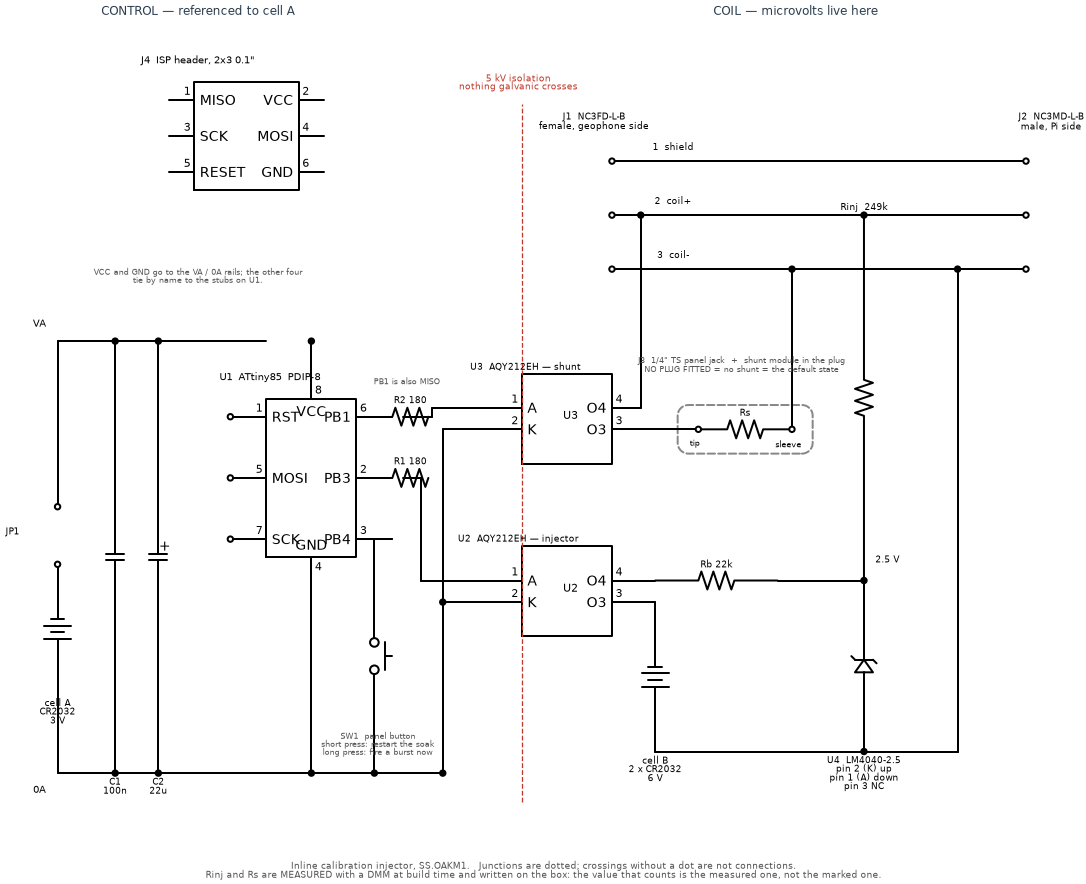
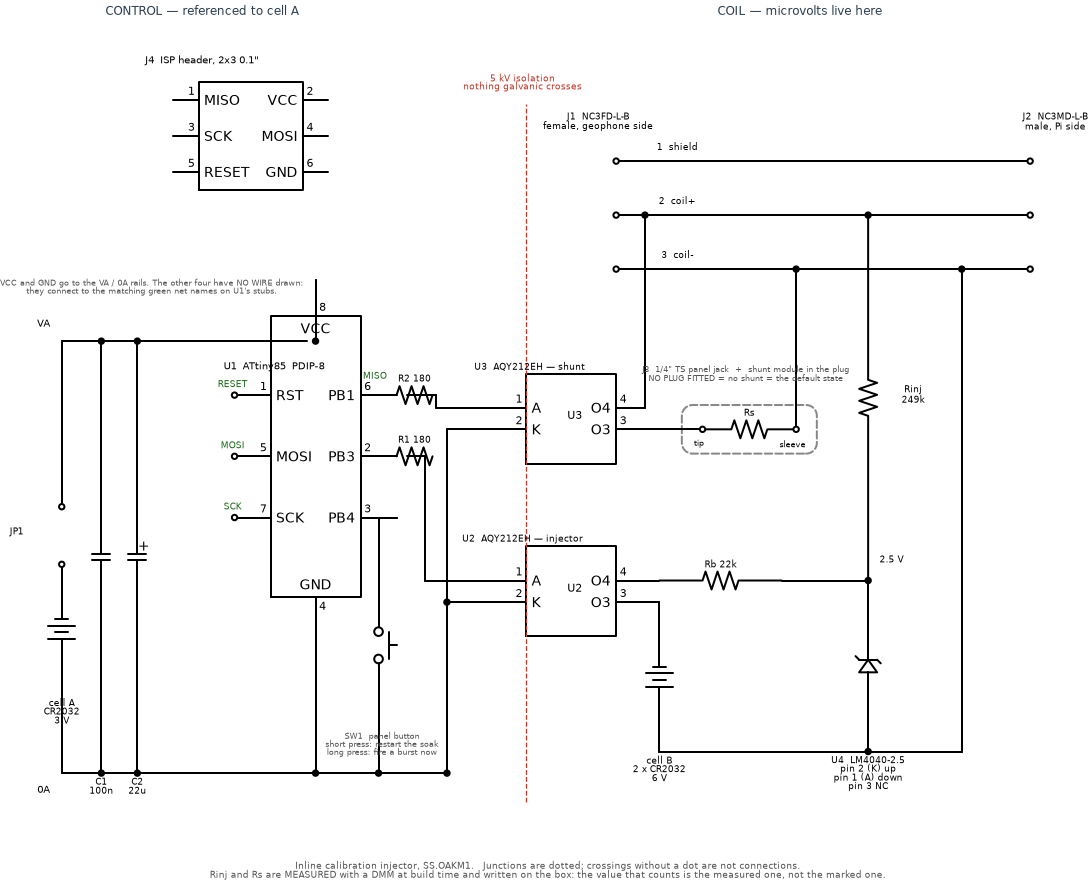
schematic: J4 looked connected to nothing, and it was my fault
Charles read the drawing and found four things. Three were defects.

The net names were missing. The whole sheet leans on 'ties by name', but an
earlier layout fix deleted the name labels from U1's stubs, leaving J4 with
six leads going nowhere and no way to know they land on the ATtiny. Names are
back, in green, with a caption that says explicitly that those four have NO
WIRE drawn.

The VA rail stopped dead at U1's VCC junction so it read as a line to nowhere;
it now runs past the junction. U1's pin names collided with VCC and GND
because 3 pins in 3 slots sit hard against the box edges -- using the middle
three of five slots fixes it -- and U1 sat high enough that its VCC pin poked
above the rail.

Rinj's label had drifted to the top of a long vertical element instead of
sitting beside the zigzag, so the resistor and its value looked like separate
components.

The fourth question was JP1, which is real and just needed explaining: a
jumper in cell A's positive lead, pulled for ISP (so a 5 V programmer never
reaches a CR2032) and used as the microammeter break for the sleep-current
check.

diff --git a/doc/calibrator_schematic.py b/doc/calibrator_schematic.py
@@ -118,7 +118,7 @@ with schemdraw.Drawing(file="doc/calibrator.svg", show=False) as d:
     # plug, write the value in analysis/epochs.py -- no iron, and no opening the
     # box immediately before a campaign whose premise is that nothing else changed.
     d += elm.EncircleBox([tip, sleeve], padx=0.5, pady=0.6).linestyle("--").color("#888")
-    d += elm.Label().at((19.7, u3.O3.y + 1.7)).label(
+    d += elm.Label().at((19.7, u3.O3.y + 1.45)).label(
         "J3  1/4\" TS panel jack  +  shunt module in the plug\n"
         "NO PLUG FITTED = no shunt = the default state",
         fontsize=8, color="#555")
@@ -154,8 +154,9 @@ with schemdraw.Drawing(file="doc/calibrator.svg", show=False) as d:
     d += elm.Zener().at((NODE_X, BMINUS_Y)).to((NODE_X, u2.O4.y)).label(
         "U4  LM4040-2.5\npin 2 (K) up\npin 1 (A) down\npin 3 NC", loc="left", fontsize=9)
 
-    d += elm.Resistor().at((NODE_X, u2.O4.y)).to((NODE_X, RAIL_P)).label(
-        "Rinj  249k", loc="right", fontsize=9)
+    d += elm.Resistor().at((NODE_X, u2.O4.y)).to((NODE_X, RAIL_P))
+    d += elm.Label().at((NODE_X + 1.35, (u2.O4.y + RAIL_P) / 2)).label(
+        "Rinj\n249k", fontsize=9)
     d += elm.Dot().at((NODE_X, RAIL_P))
 
     # cell B negative: the LM4040 anode, the cell, and the coil return all meet.
@@ -180,7 +181,7 @@ with schemdraw.Drawing(file="doc/calibrator.svg", show=False) as d:
     # CONTROL SIDE
     # ===================================================================
     d += elm.Line().at((0.6, GND_Y)).to((11.3, GND_Y))
-    d += elm.Line().at((0.6, VA_Y)).to((6.4, VA_Y))
+    d += elm.Line().at((0.6, VA_Y)).to((7.4, VA_Y))
     d += elm.Label().at((0.0, VA_Y + 0.4)).label("VA", fontsize=10)
     d += elm.Label().at((0.0, GND_Y - 0.55)).label("0A", fontsize=10)
 
@@ -196,28 +197,28 @@ with schemdraw.Drawing(file="doc/calibrator.svg", show=False) as d:
     d += elm.Label().at((-0.55, 7.6)).label("JP1", fontsize=9)
     d += elm.Line().at((0.6, 8.4)).to((0.6, VA_Y))
 
-    d += elm.Capacitor().at((2.2, VA_Y)).to((2.2, GND_Y)).label("C1\n100n", loc="left",
+    d += elm.Capacitor().at((1.7, VA_Y)).to((1.7, GND_Y)).label("C1\n100n", loc="left",
                                                                 fontsize=9)
-    d += elm.Dot().at((2.2, VA_Y))
-    d += elm.Dot().at((2.2, GND_Y))
-    d += elm.Capacitor(polar=True).at((3.4, VA_Y)).to((3.4, GND_Y)).label(
+    d += elm.Dot().at((1.7, VA_Y))
+    d += elm.Dot().at((1.7, GND_Y))
+    d += elm.Capacitor(polar=True).at((2.7, VA_Y)).to((2.7, GND_Y)).label(
         "C2\n22u", loc="left", fontsize=9)
-    d += elm.Dot().at((3.4, VA_Y))
-    d += elm.Dot().at((3.4, GND_Y))
+    d += elm.Dot().at((2.7, VA_Y))
+    d += elm.Dot().at((2.7, GND_Y))
 
     u1 = elm.Ic(pins=[elm.IcPin(name="VCC", pin="8", side="top"),
                       elm.IcPin(name="GND", pin="4", side="bottom"),
-                      elm.IcPin(name="RST", pin="1", side="left", slot="3/3"),
-                      elm.IcPin(name="MOSI", pin="5", side="left", slot="2/3"),
-                      elm.IcPin(name="SCK", pin="7", side="left", slot="1/3"),
-                      elm.IcPin(name="PB1", pin="6", side="right", slot="3/3"),
-                      elm.IcPin(name="PB3", pin="2", side="right", slot="2/3"),
-                      elm.IcPin(name="PB4", pin="3", side="right", slot="1/3")],
-                w=4.6, h=5.6, leadlen=1.0, pinspacing=1.7, plblofst=0.1,
-                label="").at((6.4, 7.0)).theta(0)
+                      elm.IcPin(name="RST", pin="1", side="left", slot="4/5"),
+                      elm.IcPin(name="MOSI", pin="5", side="left", slot="3/5"),
+                      elm.IcPin(name="SCK", pin="7", side="left", slot="2/5"),
+                      elm.IcPin(name="PB1", pin="6", side="right", slot="4/5"),
+                      elm.IcPin(name="PB3", pin="2", side="right", slot="3/5"),
+                      elm.IcPin(name="PB4", pin="3", side="right", slot="2/5")],
+                w=4.6, h=6.8, leadlen=1.0, pinspacing=1.7, plblofst=0.1,
+                label="").at((6.4, 5.9)).theta(0)
     d += u1
 
-    d += elm.Label().at((6.4, 12.1)).label("U1  ATtiny85  PDIP-8", fontsize=10)
+    d += elm.Label().at((6.4, 12.4)).label("U1  ATtiny85  PDIP-8", fontsize=10)
     d += elm.Line().at(u1.VCC).to((u1.VCC.x, VA_Y))
     d += elm.Dot().at((u1.VCC.x, VA_Y))
     d += elm.Line().at(u1.GND).to((u1.GND.x, GND_Y))
@@ -227,8 +228,10 @@ with schemdraw.Drawing(file="doc/calibrator.svg", show=False) as d:
     # would cross the sheet twice, so it is named instead. The shunt socket stays
     # EMPTY while flashing: MISO chatters as the ATtiny answers the programmer, so
     # the shunt PhotoMOS flickers closed, and with no plug in J3 that does nothing.
-    for anchor in (u1.RST, u1.MOSI, u1.SCK):
+    for anchor, netname in ((u1.RST, "RESET"), (u1.MOSI, "MOSI"), (u1.SCK, "SCK")):
         d += elm.Dot(open=True).at(anchor)
+        d += elm.Label().at((anchor.x - 0.15, anchor.y + 0.42)).label(
+            netname, fontsize=9, color="#1a6a1a")
 
     # PB3 -> injector LED. Never shares a line with ISP: that is the whole reason
     # the drive sits on PB3 rather than wherever the perfboard made it convenient.
@@ -245,8 +248,7 @@ with schemdraw.Drawing(file="doc/calibrator.svg", show=False) as d:
     d += elm.Line().at((10.2, u1.PB1.y)).to((11.0, u1.PB1.y))
     d += elm.Line().at((11.0, u1.PB1.y)).to((11.0, u3.A.y))
     d += elm.Line().at((11.0, u3.A.y)).to(u3.A)
-    d += elm.Label().at((10.2, u1.PB1.y + 0.9)).label("PB1 is also MISO", fontsize=8,
-                                                     color="#555")
+    d += elm.Label().at((9.2, u1.PB1.y + 0.45)).label("MISO", fontsize=9, color="#1a6a1a")
 
     # Both LED cathodes return to 0A on one vertical, kept on the control side.
     d += elm.Line().at(u3.K).to((11.3, u3.K.y))
@@ -277,9 +279,10 @@ with schemdraw.Drawing(file="doc/calibrator.svg", show=False) as d:
                 label="").at((4.4, 17.2)).theta(0)
     d += j4
     d += elm.Label().at((4.4, 20.9)).label("J4  ISP header, 2x3 0.1\"", fontsize=10)
-    d += elm.Label().at((4.4, 14.9)).label(
-        "VCC and GND go to the VA / 0A rails; the other four\n"
-        "tie by name to the stubs on U1.", fontsize=8, color="#555")
+    d += elm.Label().at((3.0, 14.6)).label(
+        "VCC and GND go to the VA / 0A rails. The other four have NO WIRE drawn:\n"
+        "they connect to the matching green net names on U1's stubs.",
+        fontsize=8, color="#555")
 
     # ===================================================================
     d += elm.Label().at((4.4, 22.3)).label(
